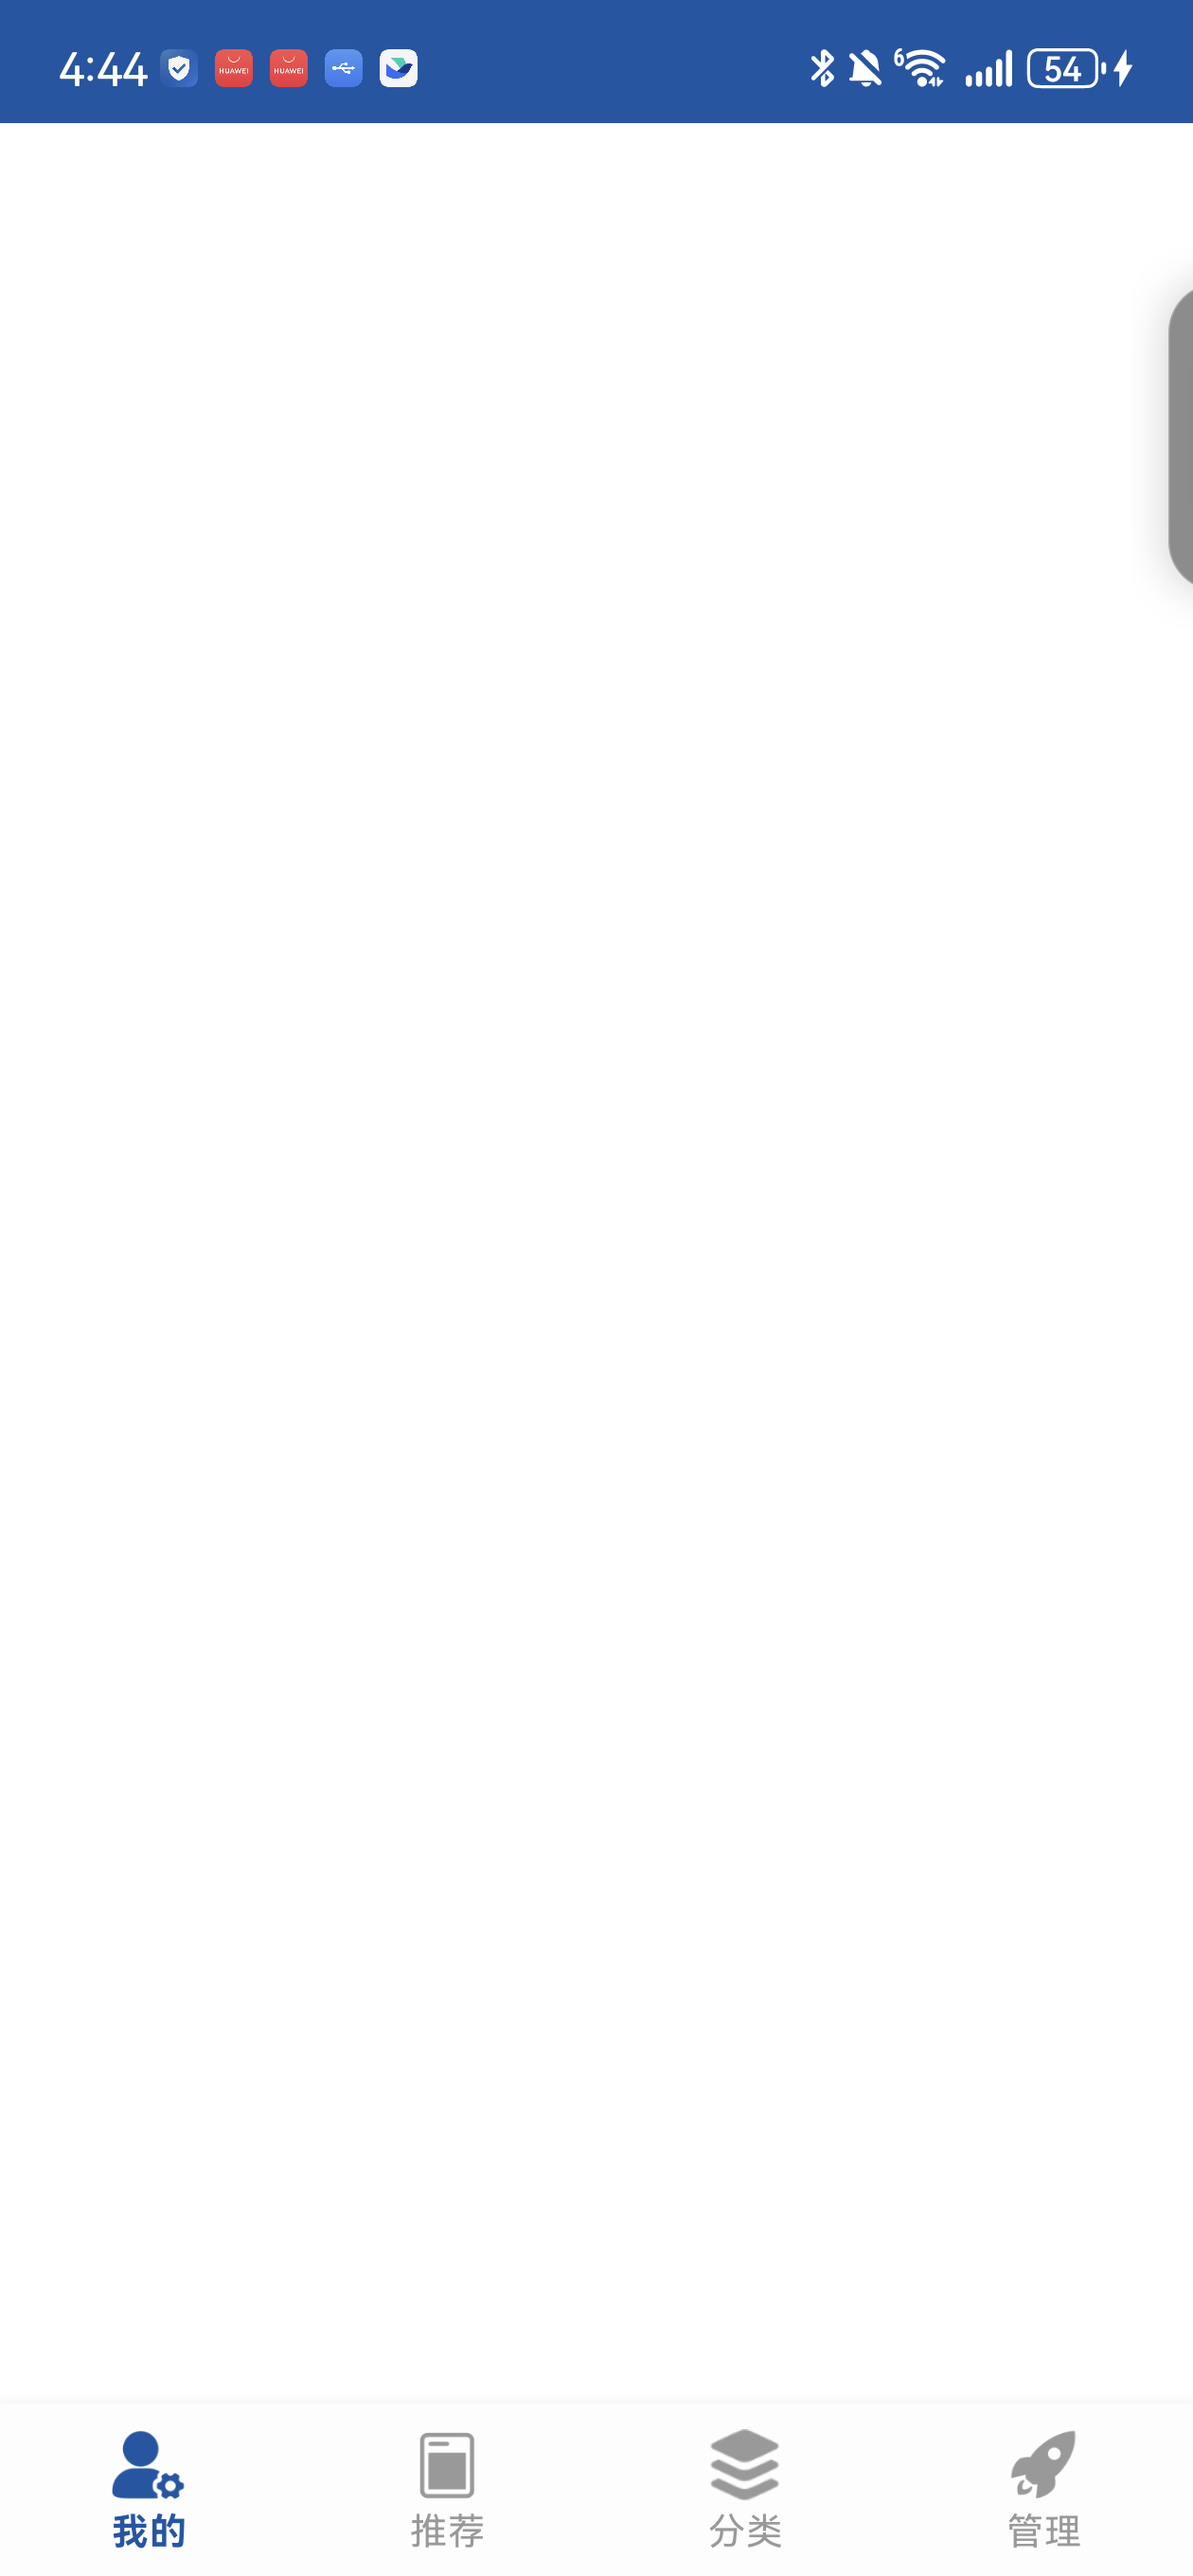
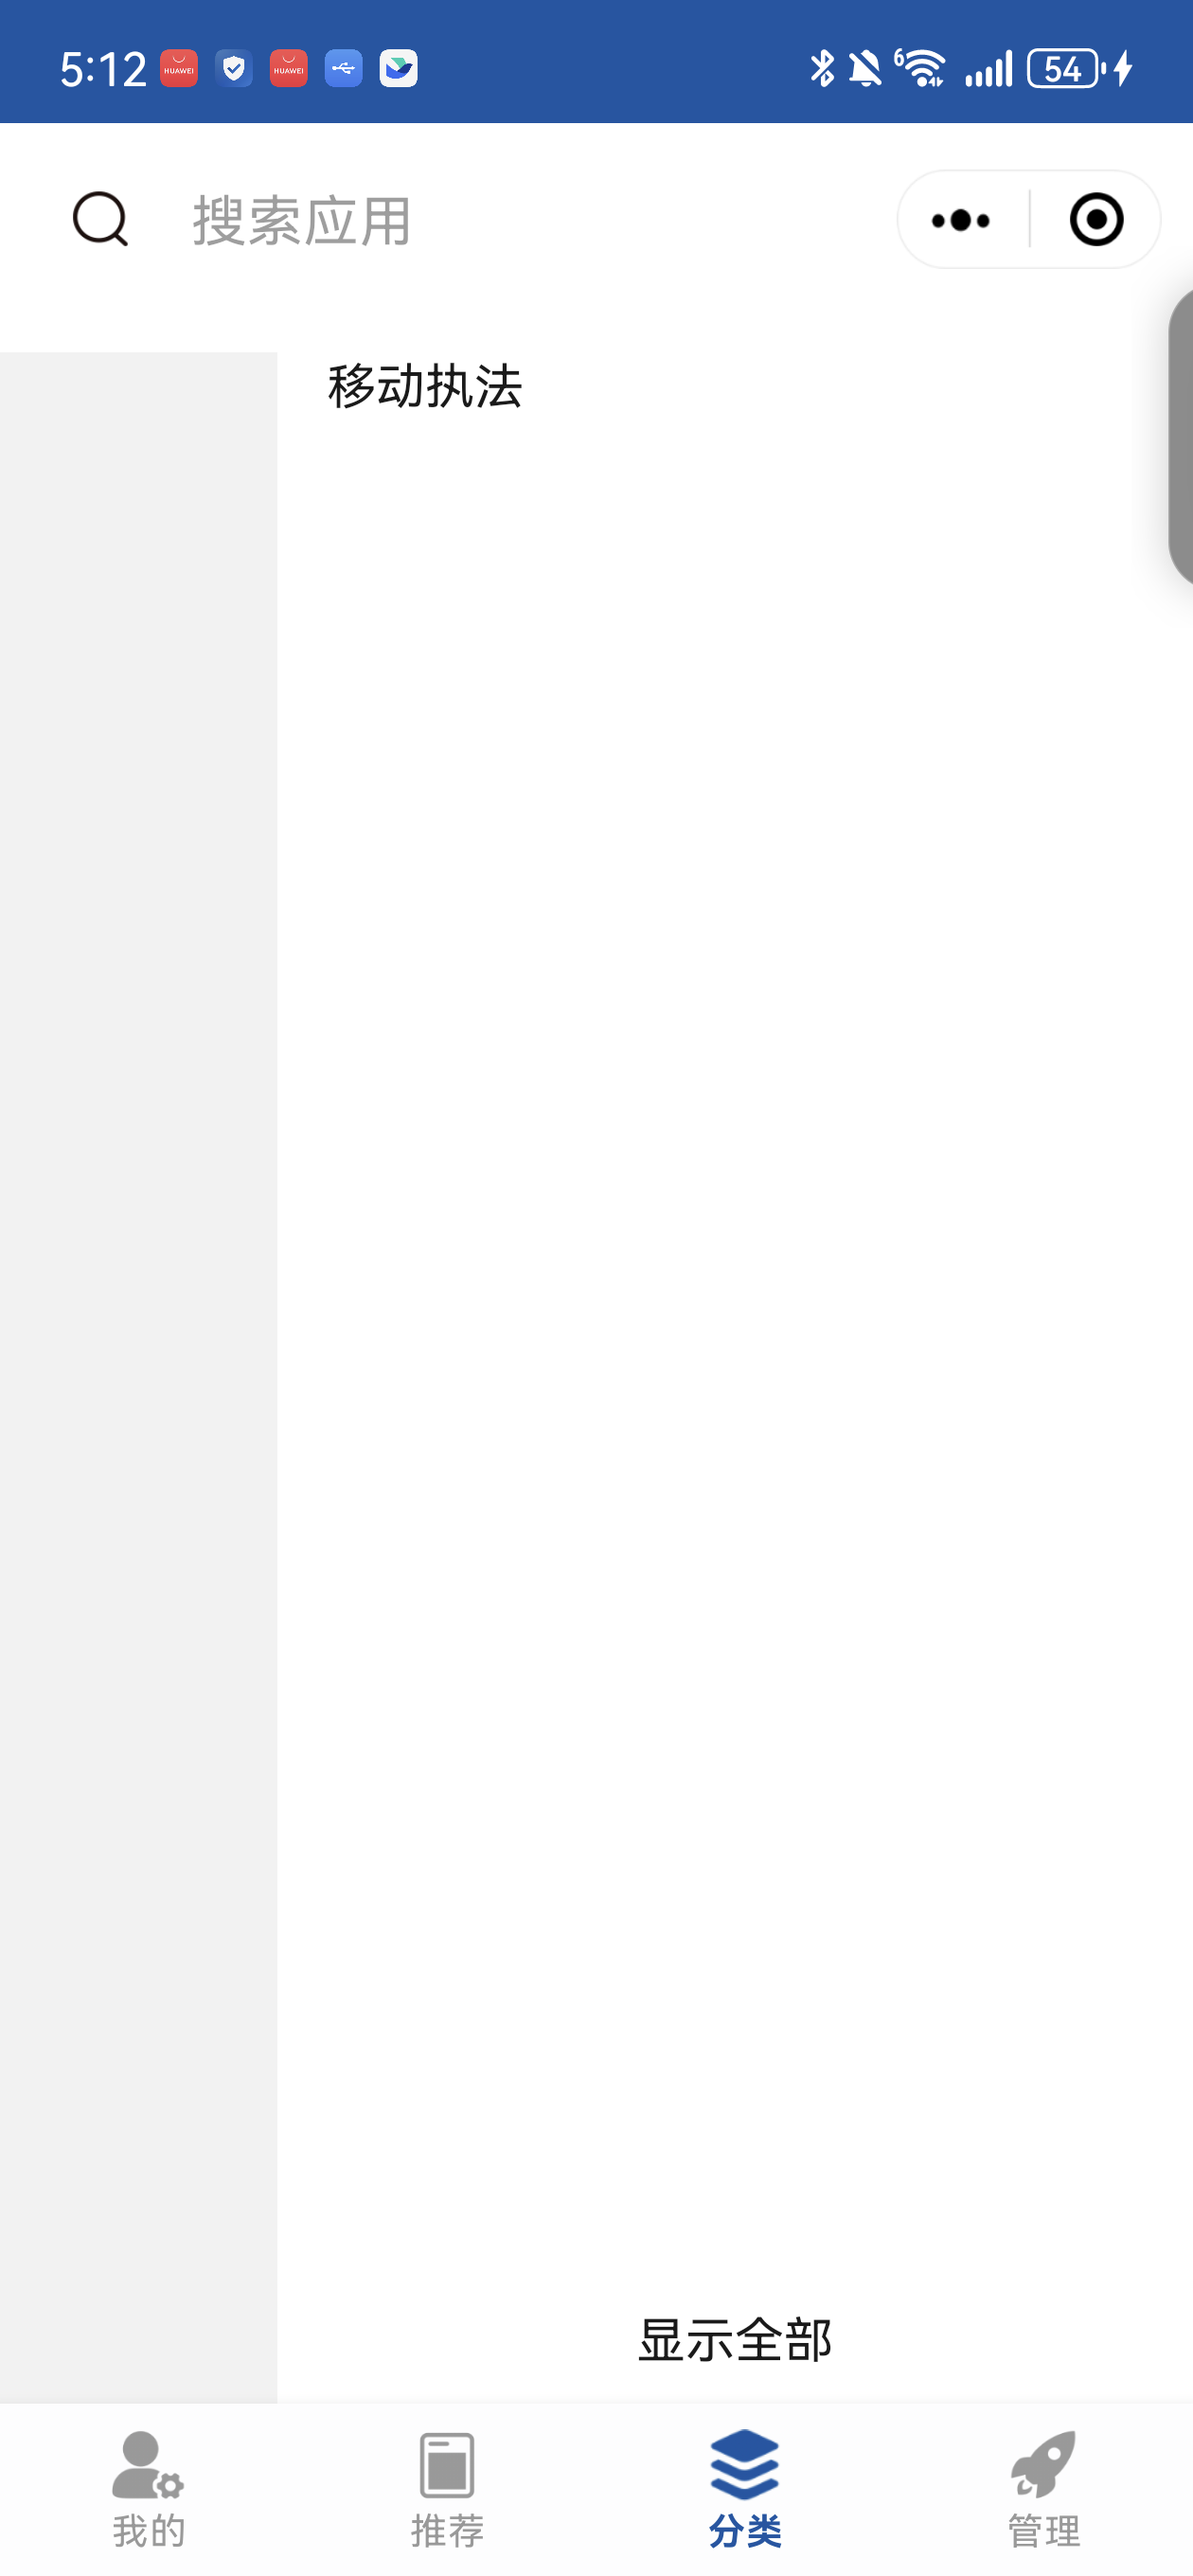
docs: 替换空白的工作台截图为分类页签实拍

diff --git a/README.md b/README.md
@@ -67,7 +67,7 @@ dependencies {
 <td><img src="screenshots/appstore-menu.png" width="300"/><br/><sub>Demo 功能菜单</sub></td>
 <td><img src="screenshots/appstore-home.png" width="300"/><br/><sub>应用市场首页</sub></td>
 <td><img src="screenshots/appstore-detail.png" width="300"/><br/><sub>应用详情</sub></td>
-<td><img src="screenshots/appstore-workbench.png" width="300"/><br/><sub>工作台</sub></td>
+<td><img src="screenshots/appstore-workbench.png" width="300"/><br/><sub>工作台（分类页签）</sub></td>
 </tr></table>
 
 **音视频 SDK**
